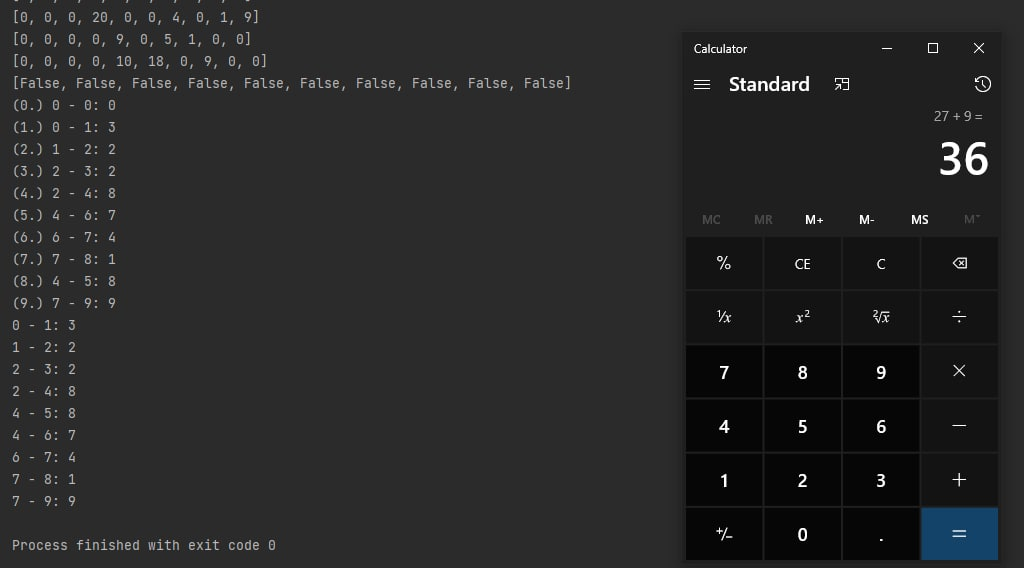
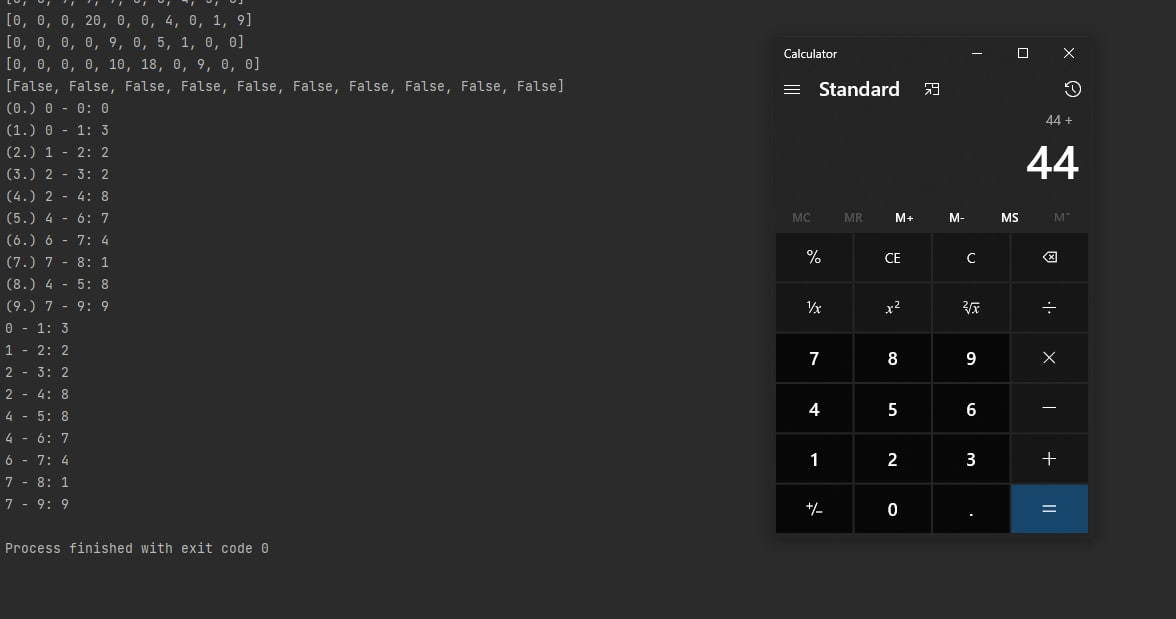
complite task there

diff --git a/Task Three/solve/main.py b/Task Three/solve/main.py
@@ -26,7 +26,7 @@ class Graph:
         for i in range(self.m_num_of_nodes):
             print(self.m_graph[i])
 
-        print(selected_nodes)
+        # print(selected_nodes)
 
         # While there are nodes that are not included in the MST, keep looking:
         while (False in selected_nodes):
@@ -60,17 +60,20 @@ class Graph:
             if minimum == postitive_inf:
                 result[start][end] = 0
 
-            print("(%d.) %d - %d: %d" % (indx, start, end, result[start][end]))
+            # print("(%d.) %d - %d: %d" % (indx, start, end, result[start][end]))
             indx += 1
 
             result[end][start] = result[start][end]
 
         # Print the resulting MST
         # for node1, node2, weight in result:
+        sum_result = 0
         for i in range(len(result)):
             for j in range(0 + i, len(result)):
                 if result[i][j] != 0:
                     print("%d - %d: %d" % (i, j, result[i][j]))
+                    sum_result += result[i][j]
+        print("path length  =  ",sum_result)
 
 # Example graph has 9 nodes
 example_graph = Graph(10)
